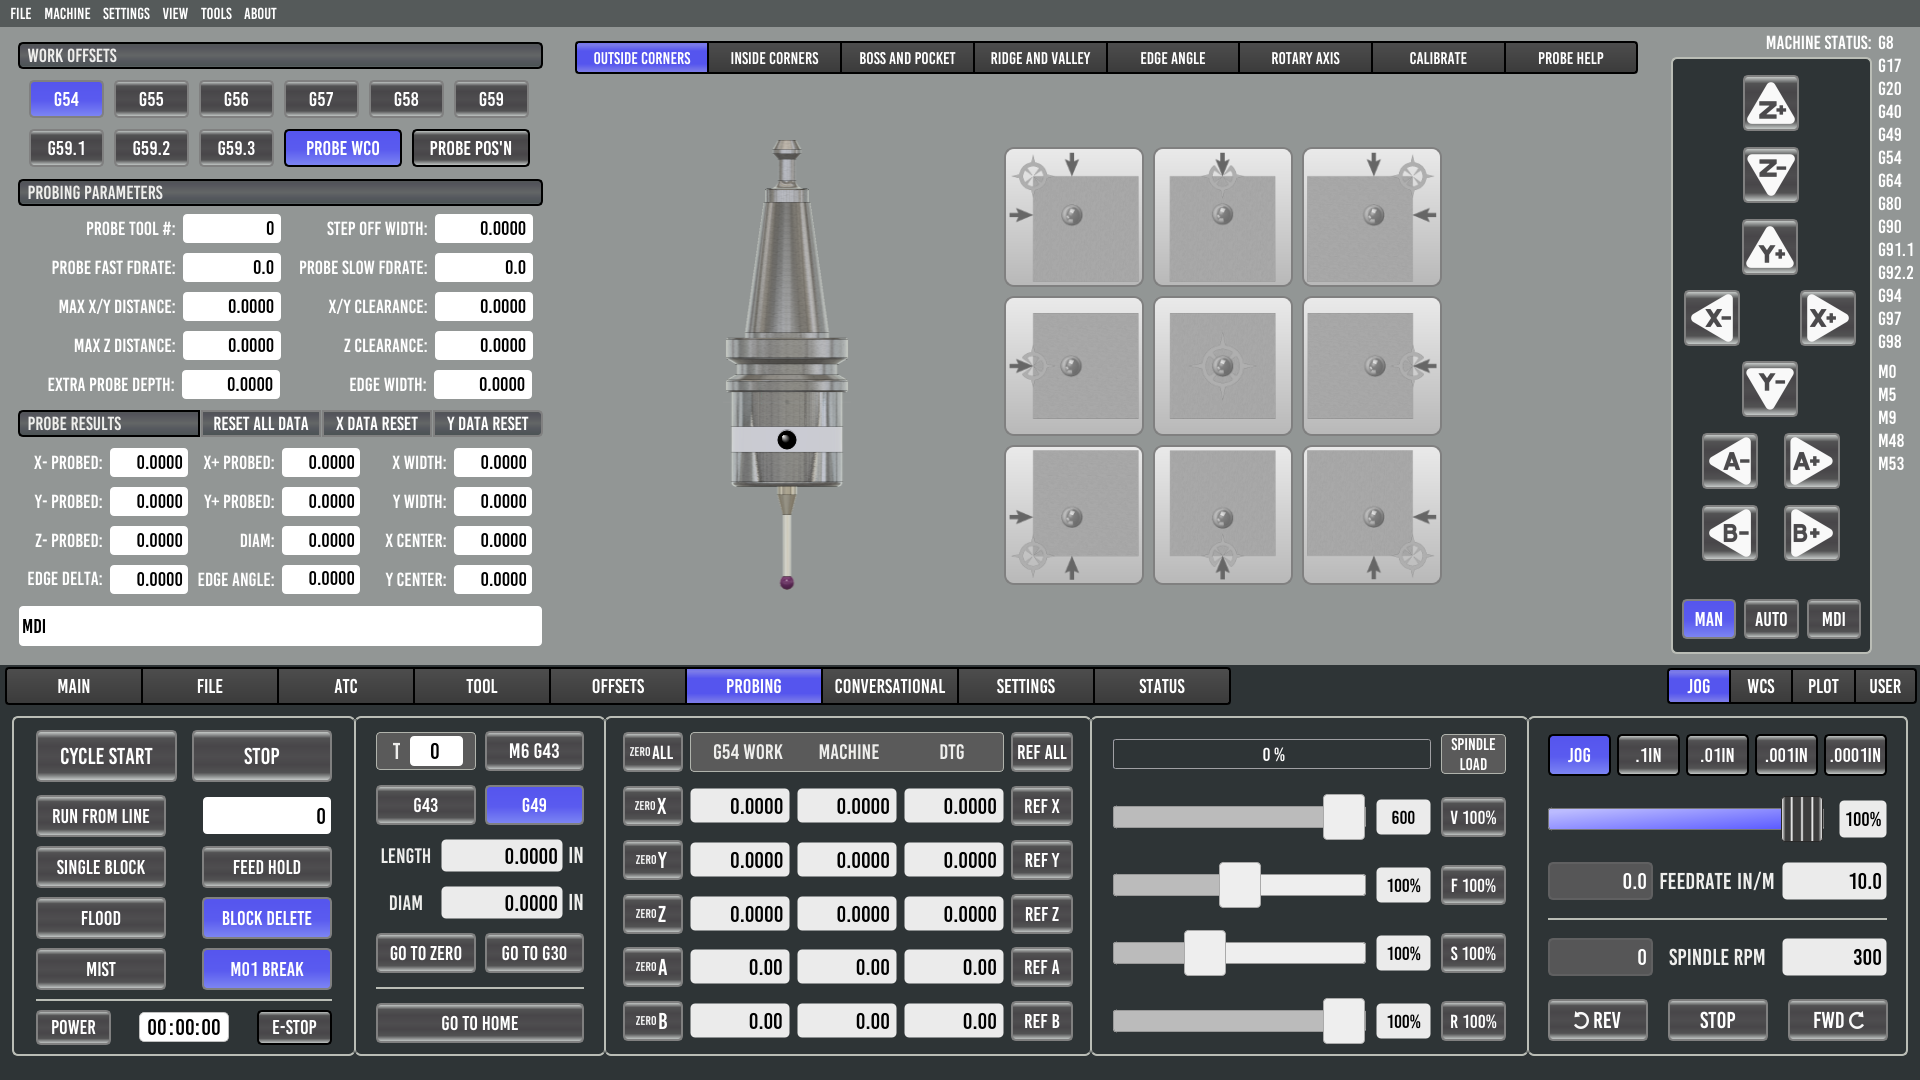
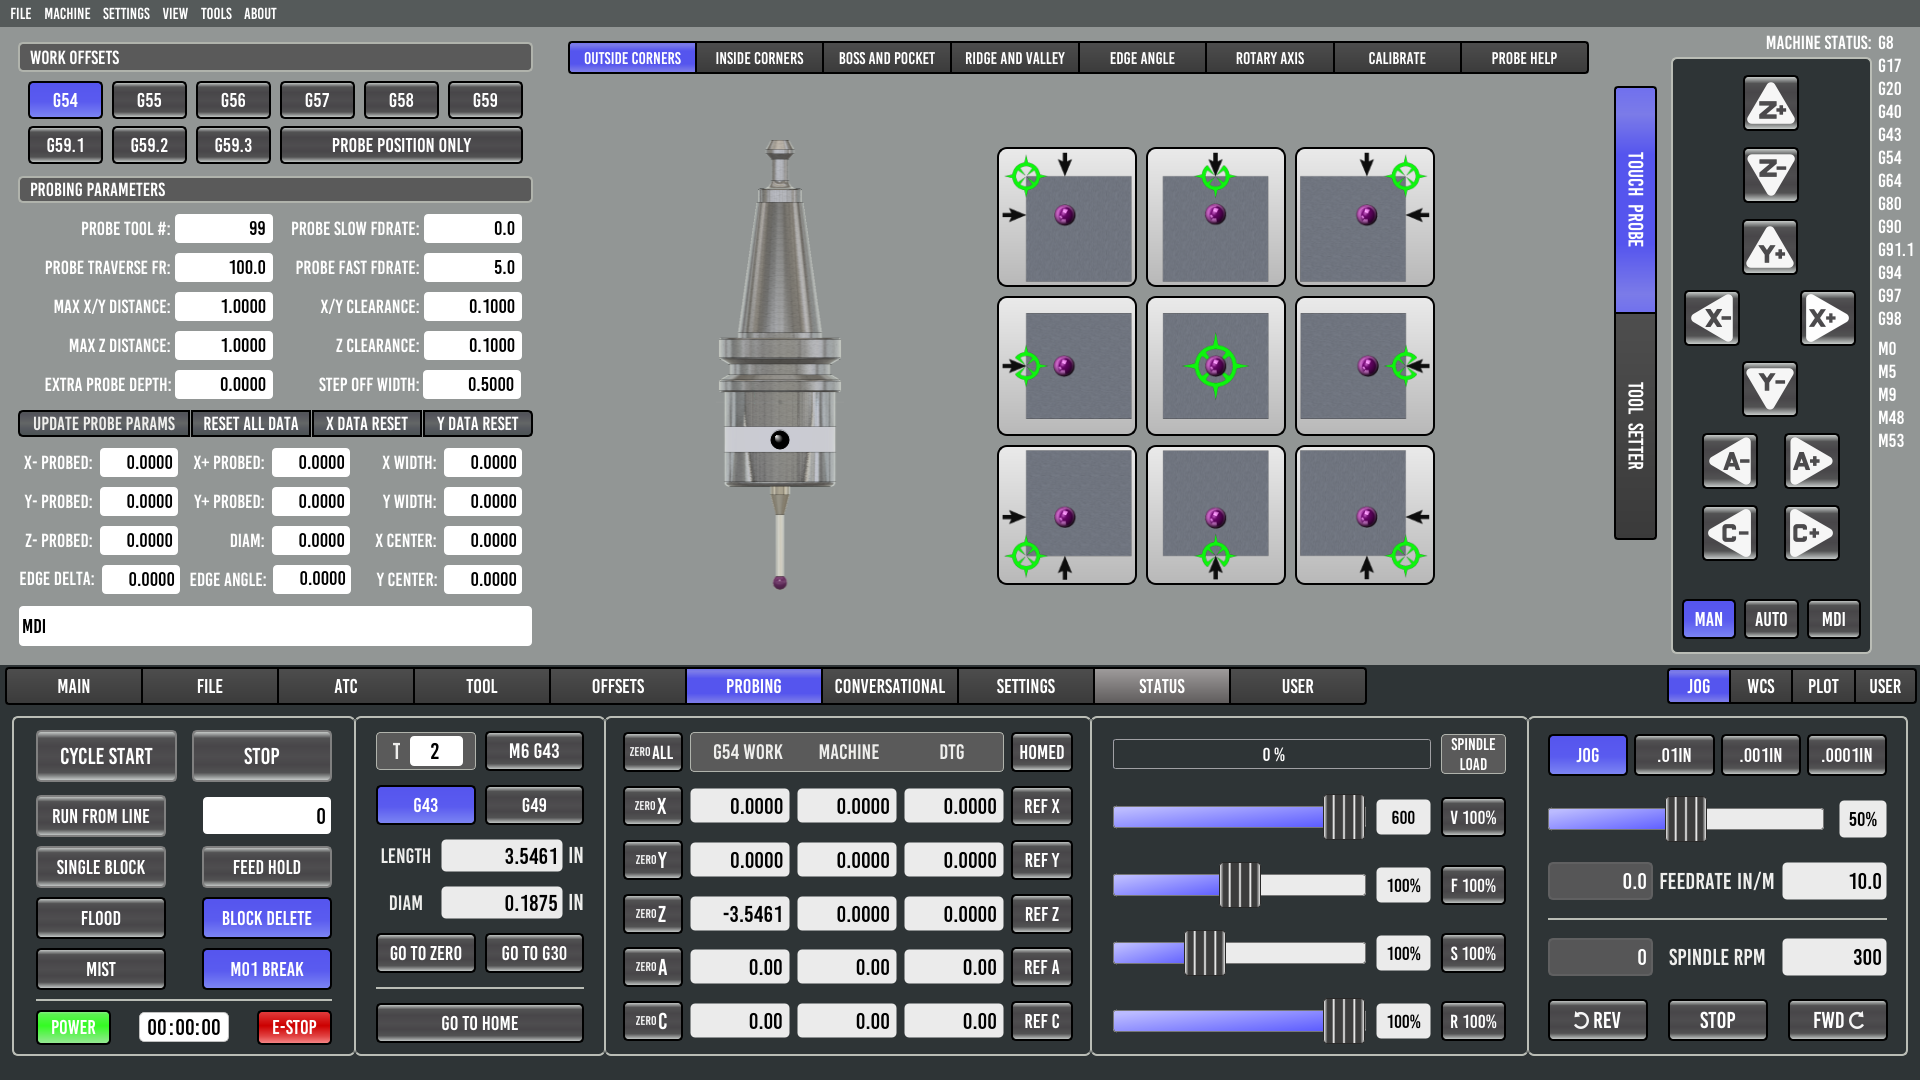
update probing docs

diff --git a/docs_src/source/probing.rst b/docs_src/source/probing.rst
@@ -4,147 +4,218 @@ Probing
 
 Probe Basic has number of include probing routines.
 
-.. image:: images/mill/06_Probing.png
-   :align: center
+   .. image:: images/mill/06_Probing.png
+      :align: center
+
+   |
 
 
 Probing Setup
 -------------
-To begin probing you fist need to make sure you have connected ``motion.probe-input`` in your HAL file.
 
-Next add an entry in your Tool Table for the probe, including the tip diameter and length offset.
+   1. To begin probing you fist need to make sure you have connected ``motion.probe-input`` in your HAL file.
 
-.. note::
-   TODO: Document best practice for measuring the probe tools length offset.
-   Post by Lcvette suggesting a good method to setup both a probe and tool setter.
-   https://forum.linuxcnc.org/qtpyvcp/49102-3d-probe-electric-tool-setter-together-in-pb#271349
+   2. Next add an entry in your Tool Table for the probe, including the tip diameter, default recommended tool number is 99. (finding the probe tool length offset will be covered below)
 
-There are also a number of probing parameters that need to be populate as well. The :ref:`help <probe_help>` tab include pointers on some of these entries.
+   3. Enter the Probing Parameters on the Probing Page, a description for these can be found on the probing help tab, or below in the docs.
+
+   4. Setting the touch probe tool length offset, The way I prefer to find the touch probe tool length offset is as follows:
+      
+      1. I use a facemill and measure the tool length of the facemill either by the tool setter or with a manual tool setter.
+
+      2. Once the facemill tool data is measured, entered and stored in the tool table,  load it in the spindle with the LOAD TOOL feature on the tooling page.
+      
+      3. Mount a piece of scrap stock in the machine vise or on the table where it can be faced.
+      
+      4. Face the stock to have a true flat surface, do not move the z axis once faced.
+      
+      5. Press the ZERO Z button in the DRO section of the interface, this will record the z work offset with the facemills tool length offset applied.  mMove the spindle to a safe distance to remove the tool.
+      
+      6. use the UNLOAD SPINDLE spindle button on the tooling page and remove the facemill from the spindle.
+      
+      7. Load the probe tool in the spindle, make sure the tool length offset in the tool table is set to 0.0000.
+      
+      8. ensure all of the probe parameters have been set correctly, and move the probe over the faced surface of the stock.
+      
+      9. Use the "PROBE POSITION ONLY" button on the probe page, this will find the surface without resetting the offset.
+      
+      10. Press the Probe Z button on the probing page to probe the faced surface of the stock, the probed result for Z- PROBED with be the tool length offset for the touch probe.  the number used will be absolute, no +/- sign entered as all tool length offsets are relative to the spindle nose gage line.
+      
+      11. Enter the absolute value in the probe tool length offset in the tool table, save and reload the tool table.
+      
+      12. Verify the tool length offset is correct by loading the probe tool using the LOAD SPINDLE button and probing the face of the stock again.
+      
+      13. The Z- PROBED result should show a probed position of 0.0000, this verifies that the probed surface from the facemill and the probed point are the same with tool length offsets applied which is what we want.
+
+   5. Now that the probe has been setup in software and in the tool table, we need to calibrate it for most accurate results, this will be covered in the calibration section below.
+
+
+Calibrating your Touch Probe
+----------------------------
+
+   Probe Basic has a built in probe calibration feature function which makes the calibration and calculations painless.  Requirements are a precision gage pin or gage ring of known size mounted securely to the table.
+
+   The software calibration assumes that you have mechanically zeroed the probes stylus tip in the spindle and it has a TIR that meets your tolerance requirements.  ideally 0.0000 TIR is the goal, but this may not always be possible
+
+      As most probes require a small deflection of the tip before tripping, **PROBE CALIBRATION OFFSET** is used to account for this and can be set using these calibration routines and an accurately measured standard gauge.
+
+   .. tip::
+      Calibration video from Lcvette https://youtu.be/Qr9L6dyXf2A
+
+      1. Select the CALIBRATE tab in Probe Basic.
+      2. Enter the gage ring or gauge pin diameter in the CALIBRATION DIAMETER dialog box
+      3. move the probe over the gage pin or gage ring as shown in the probe button graphic for which type is being used, the staring position for the probe routine should match the pink tip in the graphic. The probe should be slightly above the gage object as a z minus move is the first move.
+      4. Select the appropriate probing button that corresponds to your gage ring or pin and press it.
+      5. The probe routine should complete and afterwards will populate the PROBE CALIBRATION OFFSET box, this value will be used to account for the probes trigger distance.
+      6. important notes, the probe feedrates will directly effect the trigger distance and the same feedrates used during calibration should be used in all subsequent probing
+      7. Move the probe to the previous starting position, and press the PROBE POSITION ONLY button.  
+      8. select the BOSS AND POCKET probe tab.
+      9. select the same probe routine type for boss or pocket that was used in the calibration routine, and press it.
+      10. The results should show a diameter that now matches the gage ring or within the tolerance that the machine is capable of probing.
+      11. If the results do not match the gage ring known diameter, you can verify the stylus ball diameter is correct in the tool table, and try changing the speeds at which you probe.  than rerun the calibration routine above until your results are acceptable for your needs.
+
 
 Work Offsets
 ------------
-.. image:: images/mill/probe_00_work_offsets.png
-   :align: center
 
-This area allows you to select a Workpiece Coordinate Offsets (WCO) and if it is to be updated as a result of probing.
+   .. image:: images/mill/probe_00_work_offsets.png
+      :align: center
 
-G5x:
-  Set the active Workpiece Coordinate Offset, which maybe updated.
-PROBE WCO:
-  Update the selected WCO system (G54, G55, etc).
-PROBE POS'N:
-  Do not update a WCO, just display the results below.
+   This area allows you to select a Workpiece Coordinate Offsets (WCO) and if it is to be updated as a result of probing.
+
+   G5x:
+   Set the active Workpiece Coordinate Offset, which maybe updated.
+
+   PROBE POSITION ONLY:
+   This button when active (BLUE) will NOT set the currently active work offset to zero when a probe event occurs.  It will record the probed positions and calculate Diameter, and X Y probe widths along with the Z position probed.  this is useful for measuring or reverse engineering objects by using the probe tool.
+
+   When not active, all probe events will set the currently active work offset to zero for each probed axis position recorded.  the unactive mode should be used for setting work coordinates to zero for stock or part programs.
+
 
 Parameters
 ----------
-.. image:: images/mill/probe_00_parameters.png
-   :align: center
 
-PROBE TOOL#:
-  This should be set to match the probe entry in you tool table.
-STEP OFF WIDTH:
-  How far the probe will travel in either X or Y before moving down a side.
-PROBE FAST FDRATE:
-  Fast feed rate, for first touch when probing.
-PROBE SLOW FDRATE:
-  Slow feed rate for second touch when probing. If set to 0 (zero) a second touch will not be perform and the result from the fast probe is used.
-MAX X/Y DISTANCE:
-  Maximum distance to travel in either X or Y before tripping out.
-X/Y CLEARANCE:
-  Retract distance for X and Y probing after touch, this should be at least larger than any backlash in the axis.
-MAX Z DISTANCE:
-  Maximum distance to travel in Z before tripping out.
-Z CLEARANCE:
-  Retract distance for Z probing after touch, this should be at least larger than any backlash in the axis.
-EXTRA PROBE DEPTH:
-  Extra distance to move down a side (after probe diameter) before probing in X or Y.
-EDGE WIDTH:
-  Distance between test points when probing for Edge Angle's.
+   .. image:: images/mill/probe_00_parameters.png
+      :align: center
+
+   PROBE TOOL#:
+   This should be set to match the probe entry in you tool table.
+   STEP OFF WIDTH:
+   How far the probe will travel in either X or Y before moving down a side.
+   PROBE FAST FDRATE:
+   Fast feed rate, for first touch when probing.
+   PROBE SLOW FDRATE:
+   Slow feed rate for second touch when probing. If set to 0 (zero) a second touch will not be perform and the result from the fast probe is used.
+   PROBE TRAVERSE FDRATE:
+   This is the speed at which non probing motion will move at such as travesing the top of a work piece or repositioning for a subsequent probe event.
+   MAX X/Y DISTANCE:
+   Maximum distance to travel in either X or Y before tripping out.
+   X/Y CLEARANCE:
+   Retract distance for X and Y probing after touch, this should be at least larger than any backlash in the axis.
+   MAX Z DISTANCE:
+   Maximum distance to travel in Z before tripping out.
+   Z CLEARANCE:
+   Retract distance for Z probing after touch, this should be at least larger than any backlash in the axis.
+   EXTRA PROBE DEPTH:
+   Extra distance to move down a side (after probe diameter) before probing in X or Y.
+   EDGE WIDTH:
+   Distance between test points when probing for Edge Angle's.
+
 
 Probe Results
 -------------
-.. image:: images/mill/probe_00_results.png
-   :align: center
 
-This shows the results from the last probing run. There are reset button to clear the data if needed.
+   .. image:: images/mill/probe_00_results.png
+      :align: center
+
+   This shows the results from the last probing run. There are reset button to clear the data if needed.
 
 
 Probing Routines
 ----------------
-The purple dot in each button shows the position at which your probe tip should be approximately placed before starting the probe run.
-The Z height above the work piece should be no more than your "**MAX Z DISTANCE**" parameter.
+
+   The purple dot in each button shows the position at which your probe tip should be approximately placed before starting the probe run.
+   The Z height above the work piece should be no more than your "**MAX Z DISTANCE**" parameter.
 
 Outside Corners
 ~~~~~~~~~~~~~~~
-.. image:: images/mill/probe_01_outside_corners.png
-   :align: center
+   .. image:: images/mill/probe_01_outside_corners.png
+      :align: center
 
+   |
 Inside Corners
 ~~~~~~~~~~~~~~~
-.. image:: images/mill/probe_02_inside_corners.png
-   :align: center
+   .. image:: images/mill/probe_02_inside_corners.png
+      :align: center
 
+   |
 Boss and Pocket
 ~~~~~~~~~~~~~~~
-.. image:: images/mill/probe_03_boss_and_pocket.png
-   :align: center
+   .. image:: images/mill/probe_03_boss_and_pocket.png
+      :align: center
 
+   |
 Ridge and Valley
 ~~~~~~~~~~~~~~~~
-.. image:: images/mill/probe_04_ridge_and_valley.png
-   :align: center
+   .. image:: images/mill/probe_04_ridge_and_valley.png
+      :align: center
 
+   |
 Edge Angle
 ~~~~~~~~~~
-.. image:: images/mill/probe_05_edge_angle.png
-   :align: center
+   .. image:: images/mill/probe_05_edge_angle.png
+      :align: center
 
+   |
 Rotary Axis
 ~~~~~~~~~~~
-.. image:: images/mill/probe_06_rotary_axis.png
-   :align: center
+   .. image:: images/mill/probe_06_rotary_axis.png
+      :align: center
 
+   |
 Calibrate
 ~~~~~~~~~
-.. image:: images/mill/probe_07_calibrate.png
-   :align: center
+   .. image:: images/mill/probe_07_calibrate.png
+      :align: center
 
-As most probes require a small deflection of the tip before tripping, **PROBE CALIBRATION OFFSET** is used to account for this and can be set using these calibration routines and an accurately measured standard gauge.
+   |
 
-.. tip::
-   Calibration video from Lcvette https://youtu.be/Qr9L6dyXf2A
 
 Help
 ----
-.. _probe_help:
-.. image:: images/mill/probe_08_probe_help.png
-   :align: center
+   .. _probe_help:
+   .. image:: images/mill/probe_08_probe_help.png
+      :align: center
 
-Included here for offline reference, though a running PB instance may have more up to date help.
+   |
 
-.. image:: images/mill/probe_help_01_step_off_width.png
-   :align: center
+**Included here for offline reference, though a running PB instance may have more up to date help.**
 
+   .. image:: images/mill/probe_help_01_step_off_width.png
+      :align: center
 
-.. image:: images/mill/probe_help_02_extra_probe_depth.png
-   :align: center
+   |
+   .. image:: images/mill/probe_help_02_extra_probe_depth.png
+      :align: center
 
+   |
+   .. image:: images/mill/probe_help_03_max_z_distance.png
+      :align: center
 
-.. image:: images/mill/probe_help_03_max_z_distance.png
-   :align: center
+   |
+   .. image:: images/mill/probe_help_04_max_xy_distance.png
+      :align: center
 
+   |
+   .. image:: images/mill/probe_help_05_z_clearance.png
+      :align: center
 
-.. image:: images/mill/probe_help_04_max_xy_distance.png
-   :align: center
+   |
+   .. image:: images/mill/probe_help_06_xz_clearance.png
+      :align: center
 
+   |
+   .. image:: images/mill/probe_help_07_hint.png
+      :align: center
 
-.. image:: images/mill/probe_help_05_z_clearance.png
-   :align: center
-
-
-.. image:: images/mill/probe_help_06_xz_clearance.png
-   :align: center
-
-
-.. image:: images/mill/probe_help_07_hint.png
-   :align: center
+   |
